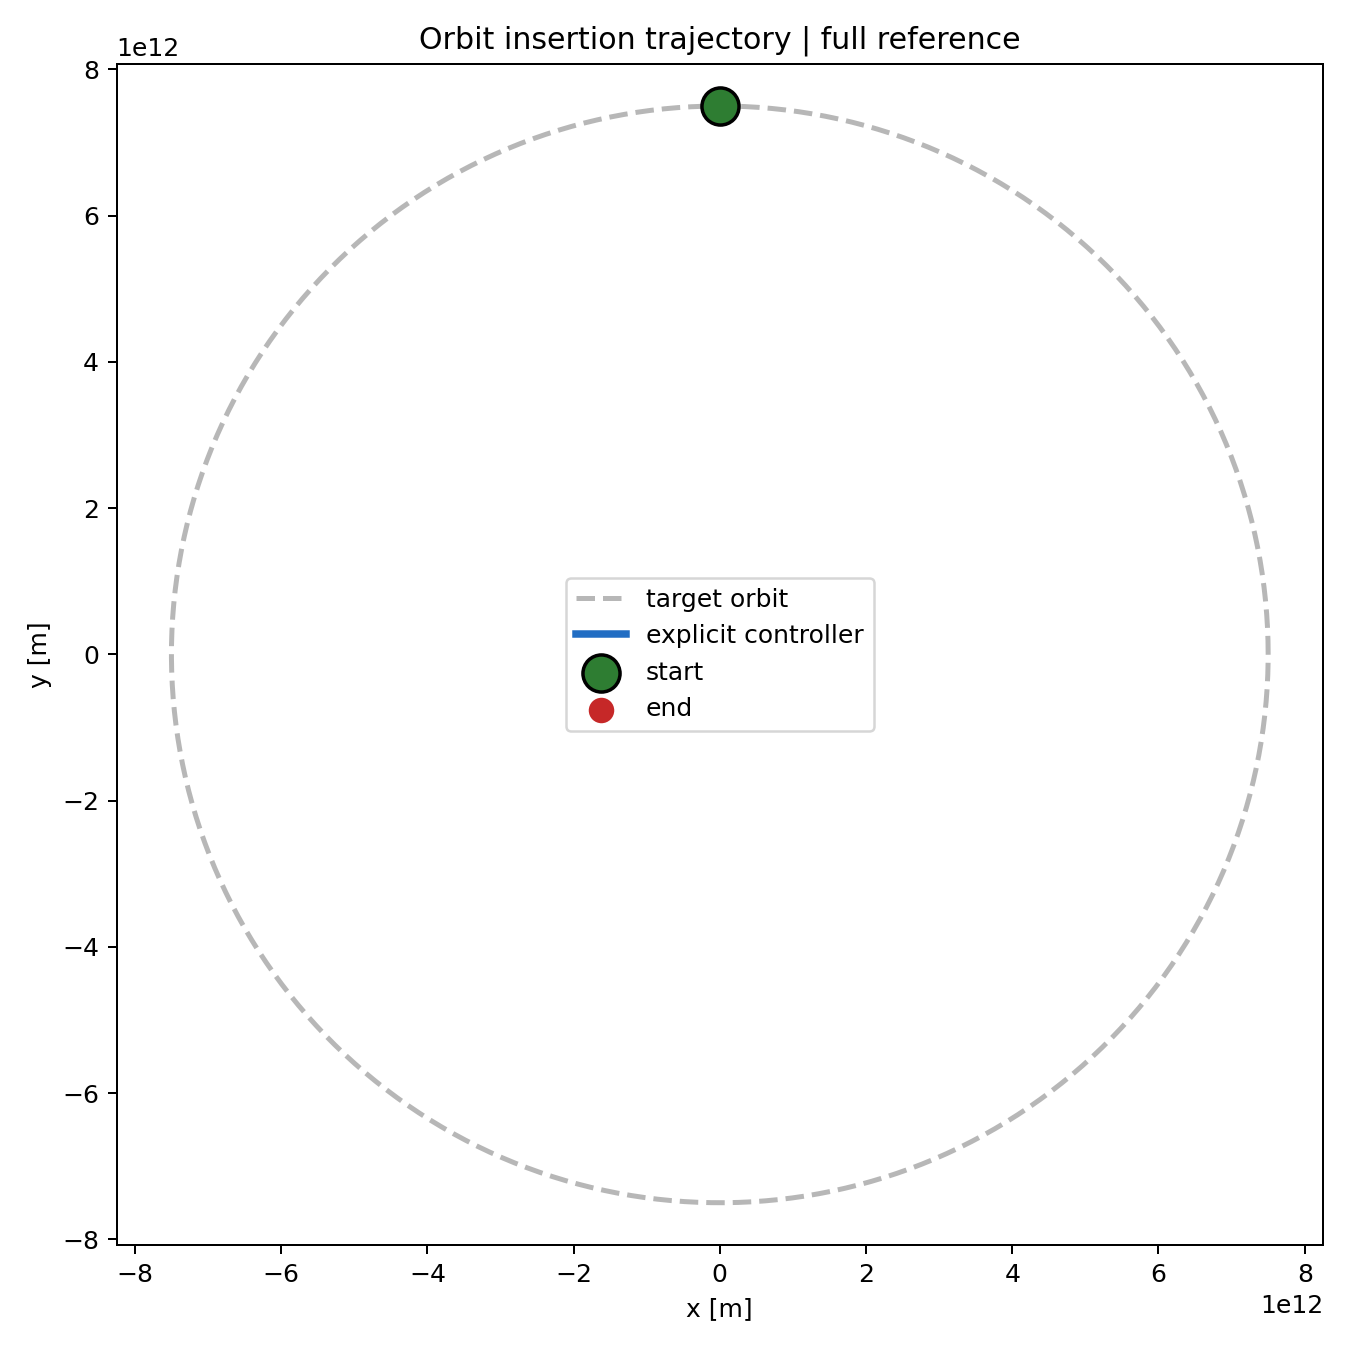
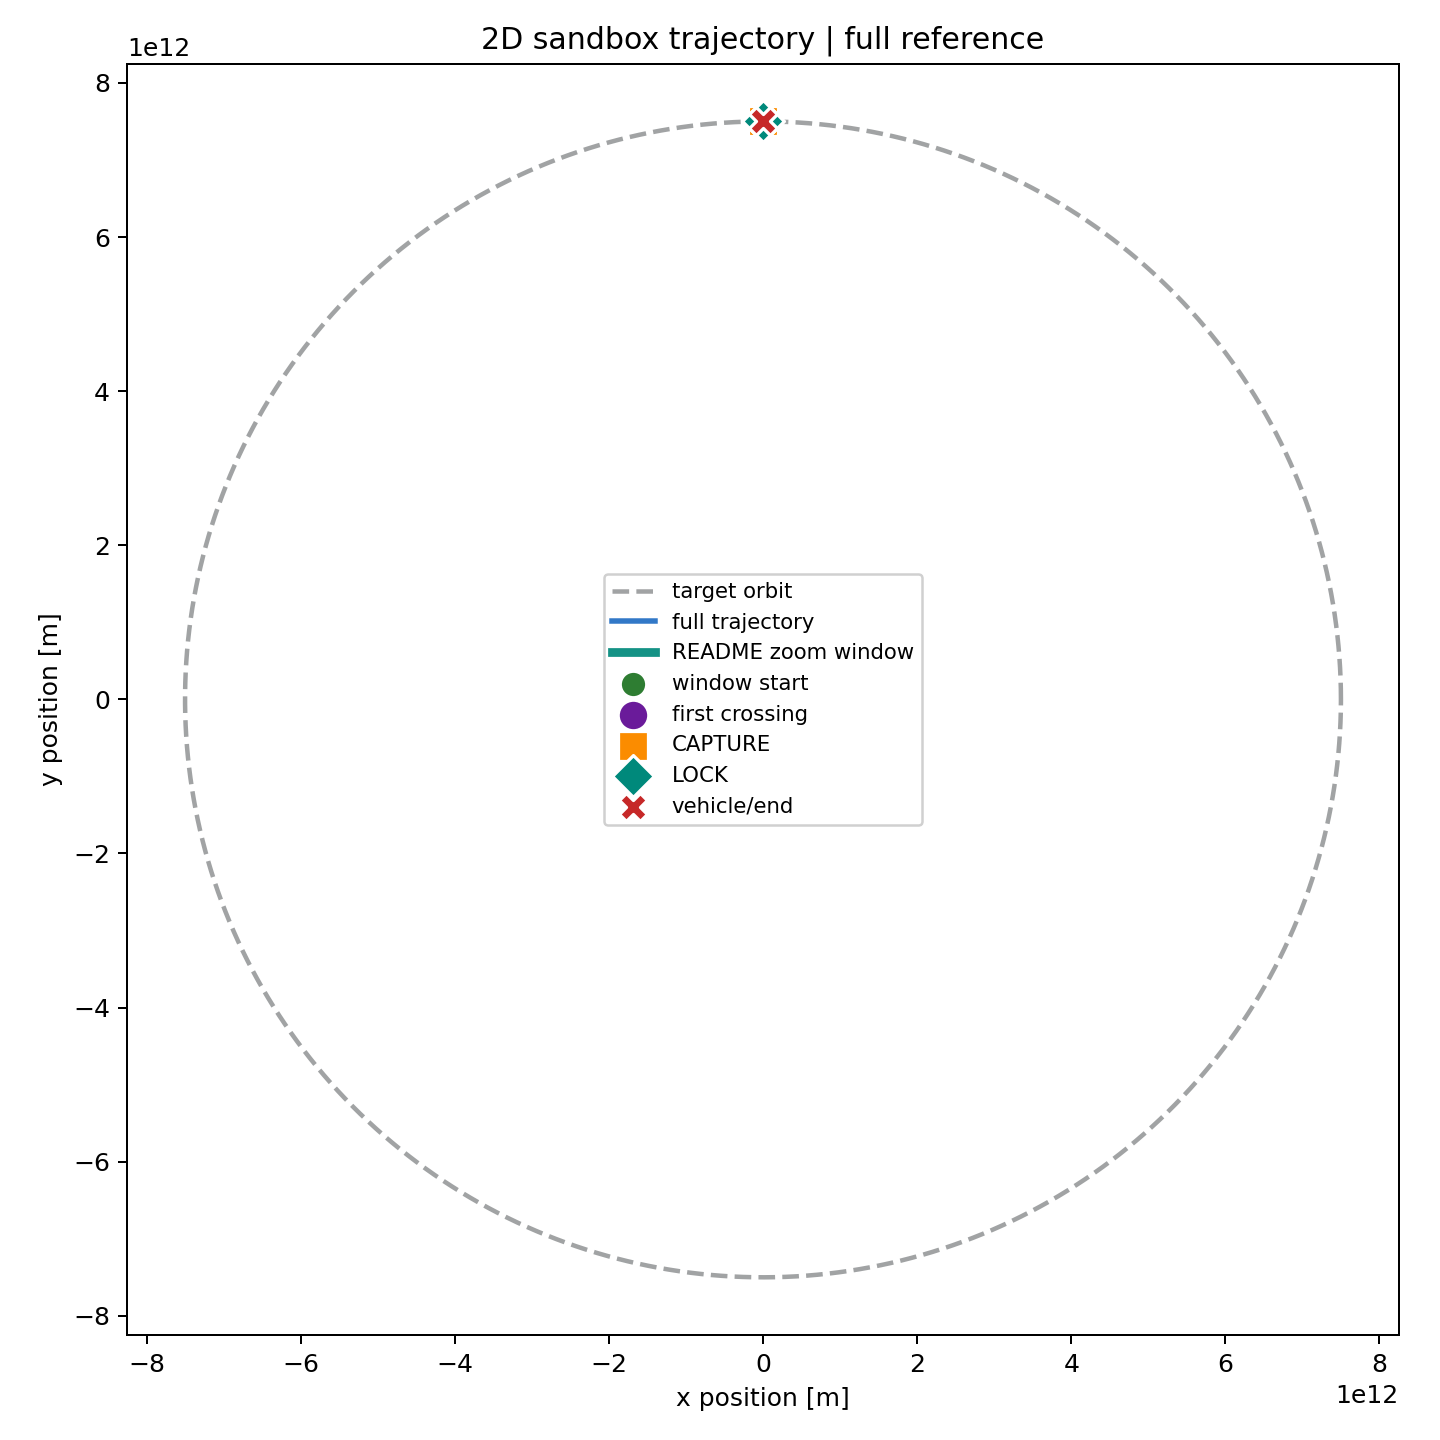
Upgrade README demo visuals and validate orbital insertion evidence

diff --git a/README.md b/README.md
@@ -14,6 +14,72 @@ crossing -> post-cross smooth synchronization -> recoverability basin -> surviva
 
 Phase34 is the current architecture breakthrough. It does not solve the entire orbital insertion problem, and it is not a real spacecraft controller. It shows that, for trajectory families that already produce a target-radius crossing, adding a post-cross synchronization mode can convert those crossings into recoverable cases.
 
+## Demo & Visual Overview
+
+The fastest way to understand this repository is to inspect the insertion event directly. The demo below shows a successful explicit-controller sandbox insertion sequence. It is control-architecture evidence from a 2D simulator, not flight validation.
+
+Verified demo summary:
+
+- success: `true`
+- radius crossings: `1`
+- first crossing step: `48,269`
+- final radius error: `27,657.63 m`
+- phase transitions: `DESCENT -> CAPTURE`, `CAPTURE -> LOCK`
+
+### Primary Insertion Event
+
+![Primary insertion event](analysis/demo/orbit_demo_trajectory.png)
+
+### Dynamic Zoomed Insertion Window
+
+![Zoomed insertion GIF](analysis/demo/orbit_demo_zoom.gif)
+
+### Full Trajectory Reference
+
+![Full trajectory reference](analysis/demo/orbit_demo_full.png)
+
+## Visual Interpretation
+
+These visuals represent the core control-science distinction explored throughout this project:
+
+- Crossing target radius is not equivalent to orbital insertion.
+- A trajectory may visually "reach" the orbit but still fail recoverability.
+- The important structure is:
+
+```text
+crossing -> post-cross correction -> recoverability -> CAPTURE -> LOCK
+```
+
+Interpretation of the simulator labels:
+
+- Crossing: a geometric event where the trajectory crosses the target radius.
+- Recoverability: dynamic viability, where radius, radial velocity, and tangential velocity can be brought into a survivable basin.
+- CAPTURE: the simulator insertion regime has been entered.
+- LOCK: the simulator stabilized regime has been entered.
+
+What to look for in weaker architectures such as PPO and early heuristics:
+
+- radius approach without stable insertion
+- one-sided drift
+- unstable or non-recoverable crossing
+
+What to look for in stronger architectures such as Phase34 post-cross synchronization:
+
+- crossing-producing transfer
+- smooth post-cross correction
+- radius, radial-velocity, and tangential-velocity synchronization
+- recoverable trajectory family
+
+## Why This Matters
+
+This repository is not primarily about making a spacecraft touch a target orbit.
+
+It is about understanding:
+
+> What control architecture converts geometric success into dynamically survivable insertion?
+
+The visuals above should be interpreted as control-architecture evidence, not flight-readiness evidence.
+
 ## Project Overview
 
 The project tests control architectures in a simplified planar orbital environment. The environment tracks radius, radial velocity, tangential velocity, thrust-limited control, target-radius crossing, CAPTURE, LOCK, and survival-style success criteria.
